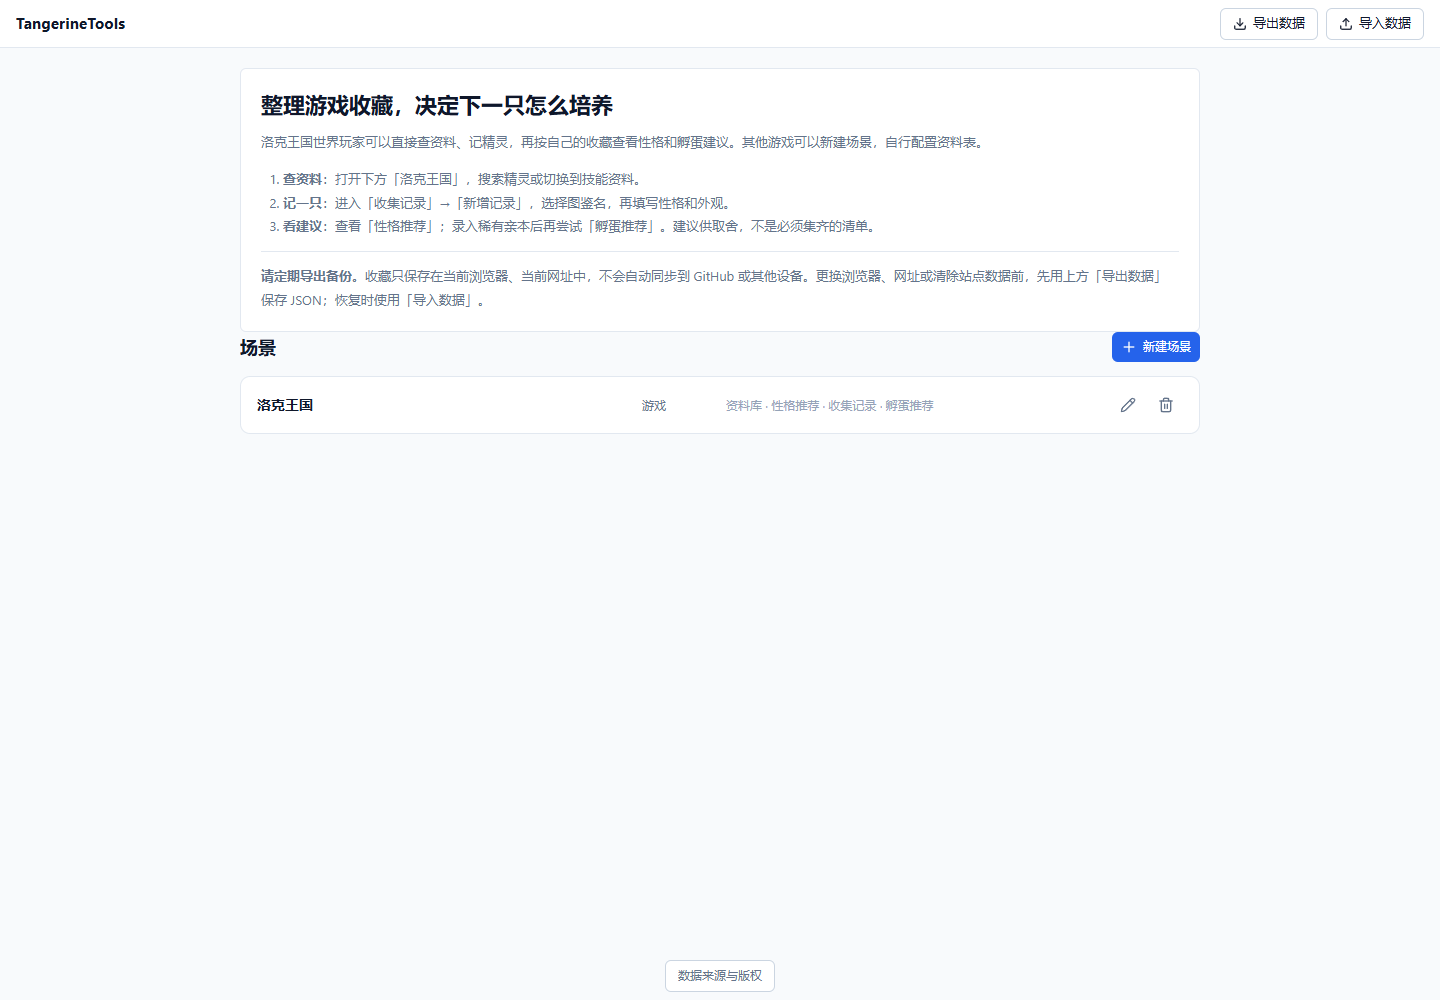
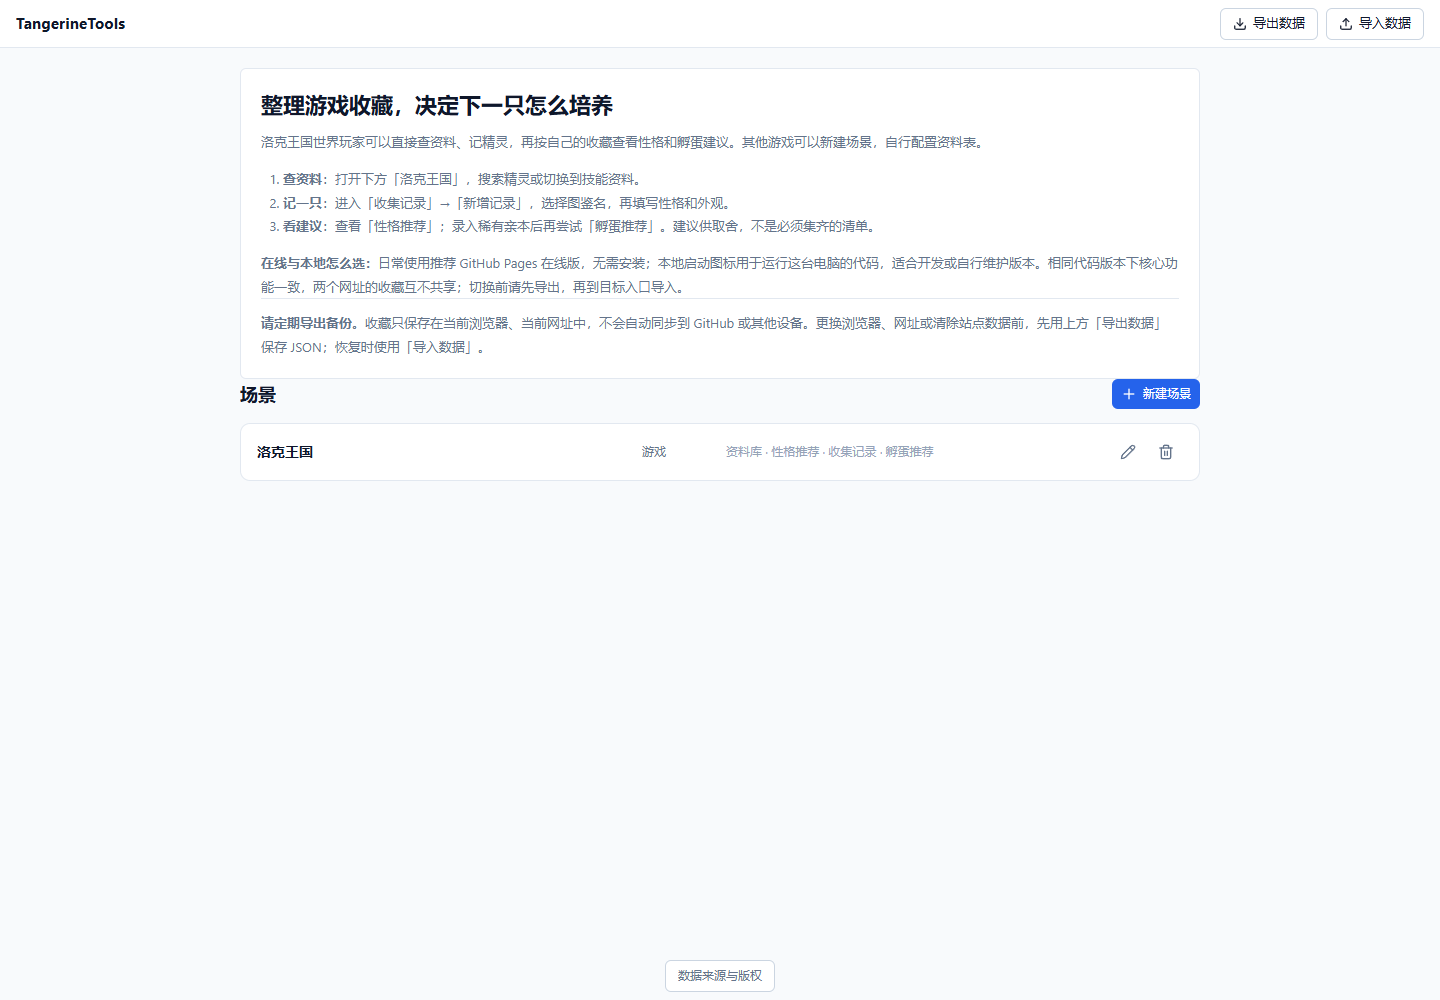
Explain online and local usage and guard repository privacy

Changed region(s): [[0.1562, 0.248, 0.8438, 0.465], [0.5, 0.372, 0.6562, 0.465], [0.4375, 0.403, 0.4688, 0.465]]

diff --git a/src/components/scenes.jsx b/src/components/scenes.jsx
@@ -32,6 +32,7 @@ export function SceneList({ scenes, onOpen }) {
           <li><strong>记一只</strong>：进入「收集记录」→「新增记录」，选择图鉴名，再填写性格和外观。</li>
           <li><strong>看建议</strong>：查看「性格推荐」；录入稀有亲本后再尝试「孵蛋推荐」。建议供取舍，不是必须集齐的清单。</li>
         </ol>
+        <p><strong>在线与本地怎么选：</strong>日常使用推荐 GitHub Pages 在线版，无需安装；本地启动图标用于运行这台电脑的代码，适合开发或自行维护版本。相同代码版本下核心功能一致，两个网址的收藏互不共享；切换前请先导出，再到目标入口导入。</p>
         <p className="local-data-note"><strong>请定期导出备份。</strong>收藏只保存在当前浏览器、当前网址中，不会自动同步到 GitHub 或其他设备。更换浏览器、网址或清除站点数据前，先用上方「导出数据」保存 JSON；恢复时使用「导入数据」。</p>
       </section>
       <div className="toolbar toolbar-scenes">

diff --git a/README.md b/README.md
@@ -8,6 +8,23 @@
 
 无需注册，核心功能不需要 API Key。收藏保存在当前浏览器，通过 JSON 手动备份和迁移。项目处于早期阶段，推荐供取舍，不是必须集齐的清单。
 
+## 在线与本地怎么选
+
+**日常使用和分享给朋友，推荐在线版；开发、调试或自行维护版本时，使用本地版。** 两者是同一套工具，相同代码版本下核心功能一致。
+
+| | 在线版（GitHub Pages） | 本地版 |
+|---|---|---|
+| 打开方式 | [打开在线工具](https://manamiiii.github.io/TangerineTools/)，可加入浏览器书签 | 启动项目后访问 `http://localhost:5188`；Windows 可用本地启动快捷方式 |
+| 安装要求 | 有浏览器即可，不需要 Node 或源码 | 需要 Node、项目代码和依赖 |
+| 使用的版本 | 已成功部署的公开版本，重新打开或刷新后加载 | 当前电脑里的代码；需要自行同步更新，也可能包含未发布改动 |
+| 收藏保存在哪里 | 当前浏览器中，属于在线网址的站点存储 | 当前浏览器中，属于本地网址的站点存储；不保存在项目代码目录 |
+| 是否同步收藏 | 不上传到 GitHub，不自动同步到本地版或其他设备 | 不随代码提交，不自动同步到在线版或其他设备 |
+| 网络要求 | 首次加载和更新需要网络；不保证断网可用 | 安装完成后可由本机提供程序和预置；外部图片、模型等仍需要网络 |
+
+桌面上的**本地启动快捷方式**用于启动这台电脑的服务，不是在线版的必需品。只使用在线版时，可收藏网页或创建网页快捷方式，无需先运行本地服务。
+
+**从本地切换到在线版：** 先在本地首页「导出数据」，再打开在线版「导入数据」，核对收集记录后固定使用在线入口。在线版已有记录时，先备份在线数据并查看导入覆盖预览；同 ID 记录按备份覆盖，文件未包含的记录保留。两个入口来回使用会形成各自的记录，不会自动合并。更换浏览器或设备也需要同样的导出／导入操作。
+
 ## 能帮你做什么
 
 | 你的问题 | 在工具里怎么做 |
@@ -95,11 +112,14 @@ npm run preview -- --host localhost --port 5188 --strictPort
 
 ```bash
 npm run lint
+npm run check:privacy
 npm test
 npm run build
 ```
 
 完整测试包含本机 Chrome 无界面回归，需要已安装 Chrome；Windows 启动器测试只在 Windows 执行。首次安装和依赖审计需要联网。`npm audit` 检查已知依赖通告，不等同于完整安全审计。
+
+本机目录、密钥、内网地址和个人备份不进入仓库。机器参数使用环境变量或 Git 忽略的 `.local/` 等本地配置；提交使用 GitHub noreply 邮箱。可运行 `git config --local core.hooksPath .githooks` 启用暂存区隐私检查（已有自定义钩子时先整合），详见[公开仓库与本机配置](docs/privacy-and-sources.md#公开仓库与本机配置)。
 
 README 截图来自隔离浏览器中的界面回归，不读取个人收藏。PowerShell 可执行 `$env:CAPTURE_PRODUCT_SCREENSHOT='1'; node --test scripts/tests/public-onboarding.test.mjs`，从 `artifacts/quality/product/` 检查输出后，将 `getting-started.png` 与 `nature-retention.png` 放入 `docs/assets/product/`。
 
@@ -109,6 +129,7 @@ README 截图来自隔离浏览器中的界面回归，不读取个人收藏。P
 | 命令 | 用途 |
 |---|---|
 | `npm run lint` | 静态检查 |
+| `npm run check:privacy` | 检查跟踪文件和提交邮箱，避免本机配置误入公开仓库 |
 | `npm test` | 领域与回归测试 |
 | `npm run build` | 生产构建 |
 | `npm run build:icons` | 从 `public/favicon.svg` 导出 PNG、PWA 遮罩图标和 Windows ICO |

diff --git a/docs/privacy-and-sources.md b/docs/privacy-and-sources.md
@@ -1,5 +1,19 @@
 # 隐私与第三方内容
 
+## 公开仓库与本机配置
+
+公开仓库只保存程序、可分享的默认配置、必要文档和经过审查的测试素材。本机安装目录、个人文件夹、内网地址、凭据、浏览器资料、桌面快捷方式和个人备份不应提交。
+
+- 程序路径通过脚本位置或运行环境解析，不把作者电脑的绝对路径写入代码。
+- 维护时需要的本机参数使用环境变量或保存在 Git 忽略的 `.local/`、`*.local.*`、`.env` 中；这些文件不会自动加载到前端。前端可见的环境变量不能用于保存密钥。
+- 浏览器收藏和模型配置按当前网址隔离，分别使用 IndexedDB、localStorage 和 sessionStorage，不写回源码目录。日志和诊断产物放在 Git 忽略的 `artifacts/`。
+- 桌面快捷方式留在安装者自己的桌面。仓库中的启动脚本按相对位置定位工程，不包含个人快捷方式目标路径。
+- Git 提交的作者与邮箱也是公开信息。使用公开署名和 GitHub noreply 邮箱；不要用私人邮箱提交。
+
+运行 `npm run check:privacy` 检查跟踪文件中的机器路径、常见密钥、内网地址、私有文件类型和当前提交邮箱。执行 `git config --local core.hooksPath .githooks` 可启用提交前检查，它读取暂存区内容；已有自定义钩子时应先整合，不能直接覆盖。CI 也会运行检查。
+
+文本扫描不能判定所有敏感信息，不代替截图、视频和文件元数据审查。图片里的玩家编号、昵称、聊天和个人文件路径需要单独核对并脱敏；不应把真实个人备份当作公开测试数据。删除当前文件不等于删除 Git 历史、缓存或他人的副本；历史清理需要针对具体范围另行处理。
+
 ## 收藏与备份
 
 - 收藏、资料编辑和场景配置保存在当前浏览器、当前站点的 IndexedDB 中，没有账号服务或自动云同步。GitHub 保存的是项目文件，不是你的浏览器收藏。

diff --git a/docs/data-sync.md b/docs/data-sync.md
@@ -2,6 +2,12 @@
 
 本文定义 Dexie 存储、JSON 备份、导入合并、正式预置与阅读数据迁移的当前语义。
 
+## 在线与本地的数据边界
+
+在线版和本地版使用同一套数据模型，但浏览器按 origin（协议、主机、端口）隔离存储。GitHub Pages 网址、`localhost:5188`、`127.0.0.1:5188` 和其他端口不会共享收藏；不同浏览器或设备也不会共享。收藏不写入项目代码目录，不随 Git 提交或网页部署同步。
+
+迁移时先从原入口导出 JSON，再在目标入口查看预览并按 id 合并导入；目标入口已有数据时先另存一份备份。确认记录后固定使用一个入口，避免两边独立修改造成冲突。备份中的同 ID 记录覆盖目标记录，未包含记录保留，没有自动比较新旧或双向同步。模型设置和 Key 不在备份里，需在目标入口按需重新配置。
+
 ## Dexie schema
 
 数据库名为 `tangerine-tools`，`src/db/core.js` 保持 schema v1：
